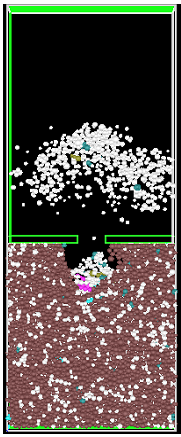
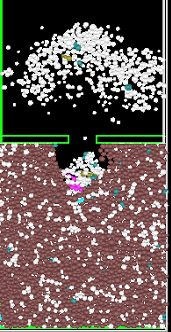
.

diff --git a/_publications/2021-09-25-paper-numerical-simulation-sand-production.md b/_publications/2021-09-25-paper-numerical-simulation-sand-production.md
@@ -2,7 +2,7 @@
 title: "Numerical simulations of sand production in oil wells using the CFD-DEM-IBM approach"
 collection: publications
 permalink: /publication/2021-09-25-paper-numerical-simulation-sand-production
-excerpt: "<img src='/images/publications/sand_production.png' style='float:left;width:84px;height:200px;'>"
+excerpt: "<img src='/images/publications/sand_production.png' style='float:left;width:78px;height:150px;'>"
 date: 2021-09-25
 venue: 'Journal of Petroleum Science and Engineering'
 paperurl: 'https://doi.org/10.1016/j.petrol.2021.109529'
